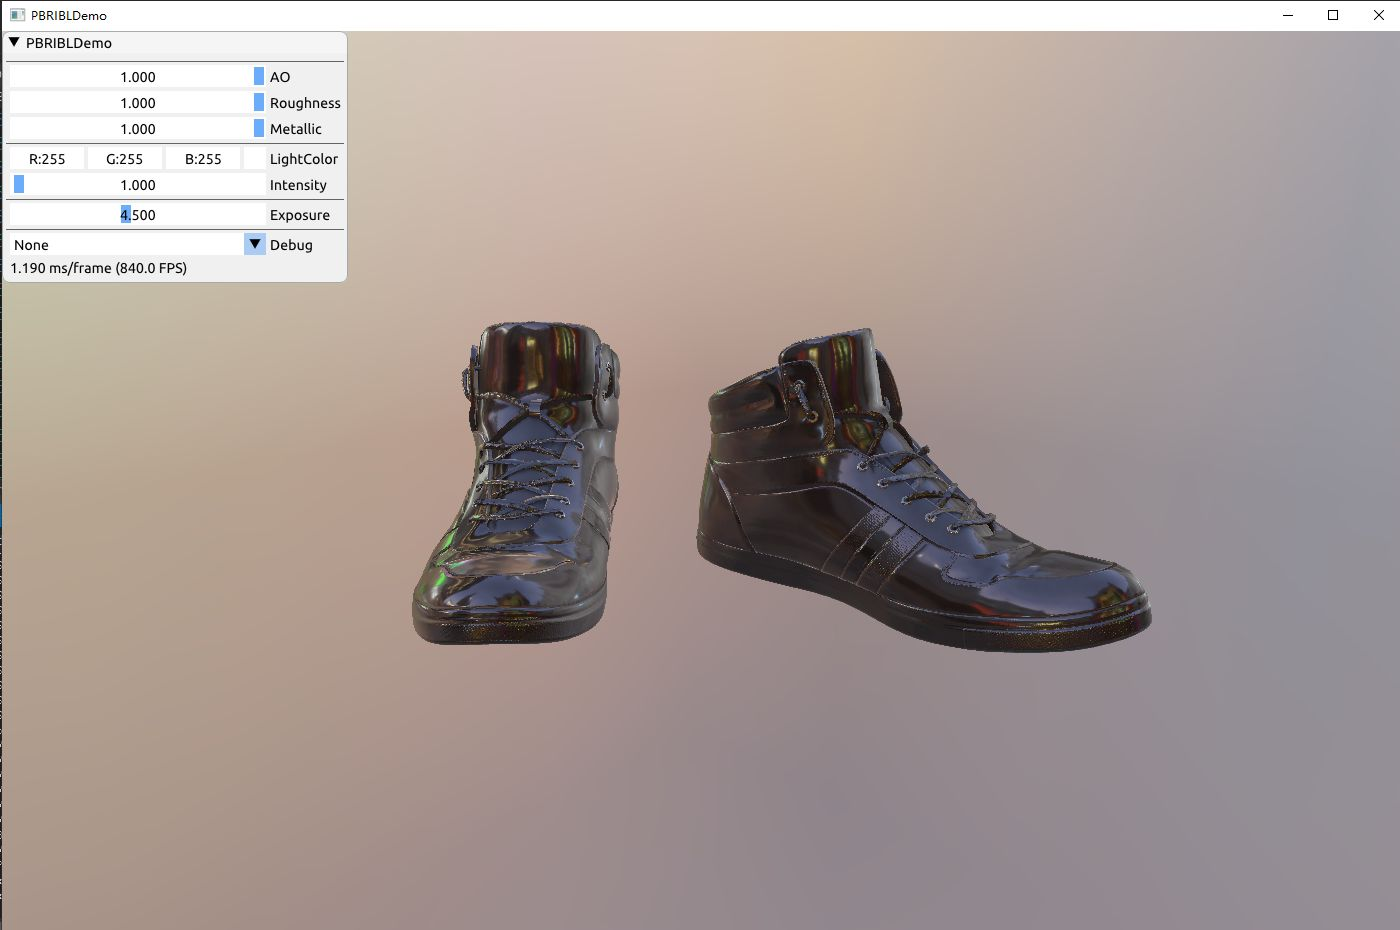
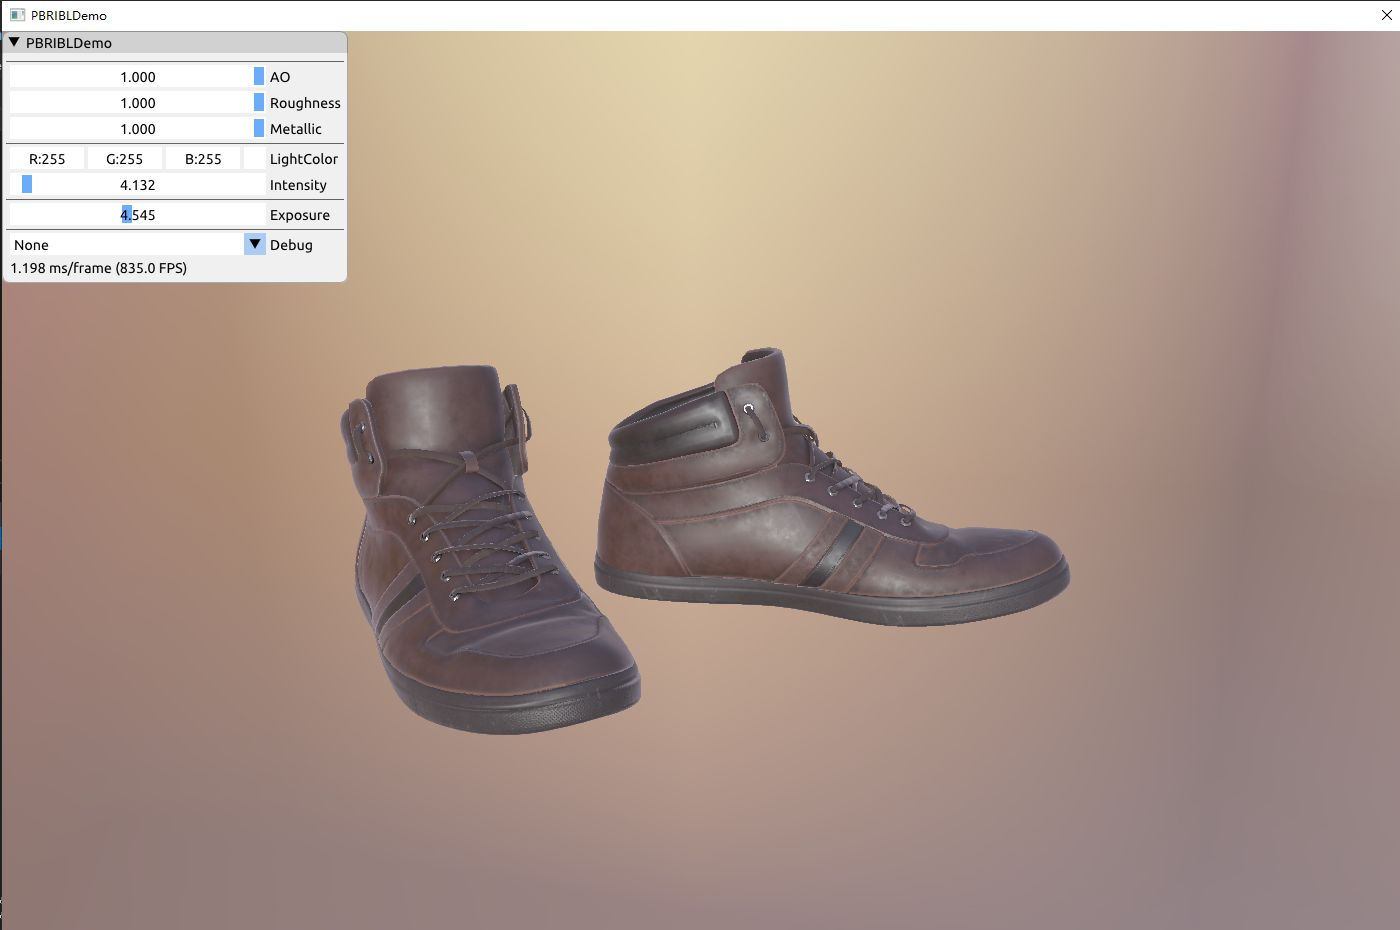
修复lod失效的问题

diff --git a/Engine/Monkey/Demo/DVKTexture.cpp b/Engine/Monkey/Demo/DVKTexture.cpp
@@ -31,13 +31,11 @@ namespace vk_demo
         VkSampler                       imageSampler = VK_NULL_HANDLE;
 		VkDescriptorImageInfo           descriptorInfo = {};
 
-		if (!(imageUsageFlags & VK_IMAGE_USAGE_TRANSFER_DST_BIT)) 
-		{
+		if (!(imageUsageFlags & VK_IMAGE_USAGE_TRANSFER_DST_BIT)) {
 			imageUsageFlags |= VK_IMAGE_USAGE_TRANSFER_DST_BIT;
 		}
 
-		if (!(imageUsageFlags & VK_IMAGE_USAGE_TRANSFER_SRC_BIT)) 
-		{
+		if (!(imageUsageFlags & VK_IMAGE_USAGE_TRANSFER_SRC_BIT)) {
 			imageUsageFlags |= VK_IMAGE_USAGE_TRANSFER_SRC_BIT;
 		}
 		
@@ -155,7 +153,8 @@ namespace vk_demo
 		samplerInfo.borderColor      = VK_BORDER_COLOR_FLOAT_OPAQUE_WHITE;
 		samplerInfo.maxAnisotropy    = 1.0;
 		samplerInfo.anisotropyEnable = VK_FALSE;
-		samplerInfo.maxLod           = (float)mipLevels;
+		samplerInfo.maxLod           = mipLevels;
+		samplerInfo.minLod           = 0.0f;
 		VERIFYVULKANRESULT(vkCreateSampler(device, &samplerInfo, VULKAN_CPU_ALLOCATOR, &imageSampler));
 		
 		VkImageViewCreateInfo viewInfo;
@@ -285,7 +284,8 @@ namespace vk_demo
 		samplerInfo.borderColor      = VK_BORDER_COLOR_FLOAT_OPAQUE_WHITE;
 		samplerInfo.maxAnisotropy    = 1.0;
 		samplerInfo.anisotropyEnable = VK_FALSE;
-		samplerInfo.maxLod           = 1.0f;
+		samplerInfo.maxLod           = mipLevels;
+		samplerInfo.minLod           = 0.0f;
 		VERIFYVULKANRESULT(vkCreateSampler(device, &samplerInfo, VULKAN_CPU_ALLOCATOR, &imageSampler));
 
 		VkImageViewCreateInfo viewInfo;
@@ -382,6 +382,8 @@ namespace vk_demo
 		VkMemoryAllocateInfo memAllocInfo;
 		ZeroVulkanStruct(memAllocInfo, VK_STRUCTURE_TYPE_MEMORY_ALLOCATE_INFO);
 
+		int32 mipLevels = 1;
+
 		// image info
 		VkImage                         image = VK_NULL_HANDLE;
 		VkDeviceMemory                  imageMemory = VK_NULL_HANDLE;
@@ -394,7 +396,7 @@ namespace vk_demo
 		ZeroVulkanStruct(imageCreateInfo, VK_STRUCTURE_TYPE_IMAGE_CREATE_INFO);
 		imageCreateInfo.imageType       = VK_IMAGE_TYPE_2D;
 		imageCreateInfo.format          = format;
-		imageCreateInfo.mipLevels       = 1;
+		imageCreateInfo.mipLevels       = mipLevels;
 		imageCreateInfo.arrayLayers     = numArray;
 		imageCreateInfo.samples         = sampleCount;
 		imageCreateInfo.tiling          = VK_IMAGE_TILING_OPTIMAL;
@@ -424,7 +426,8 @@ namespace vk_demo
 		samplerInfo.borderColor      = VK_BORDER_COLOR_FLOAT_OPAQUE_WHITE;
 		samplerInfo.maxAnisotropy    = 1.0;
 		samplerInfo.anisotropyEnable = VK_FALSE;
-		samplerInfo.maxLod           = 1.0f;
+		samplerInfo.maxLod           = mipLevels;
+		samplerInfo.minLod           = 0.0f;
 		VERIFYVULKANRESULT(vkCreateSampler(device, &samplerInfo, VULKAN_CPU_ALLOCATOR, &imageSampler));
 
 		VkImageViewCreateInfo viewInfo;
@@ -435,7 +438,7 @@ namespace vk_demo
 		viewInfo.components = { VK_COMPONENT_SWIZZLE_R, VK_COMPONENT_SWIZZLE_G, VK_COMPONENT_SWIZZLE_B, VK_COMPONENT_SWIZZLE_A };
 		viewInfo.subresourceRange.aspectMask     = aspect;
 		viewInfo.subresourceRange.layerCount     = numArray;
-		viewInfo.subresourceRange.levelCount     = 1;
+		viewInfo.subresourceRange.levelCount     = mipLevels;
 		viewInfo.subresourceRange.baseMipLevel   = 0;
 		viewInfo.subresourceRange.baseArrayLayer = 0;
 		VERIFYVULKANRESULT(vkCreateImageView(device, &viewInfo, VULKAN_CPU_ALLOCATOR, &imageView));
@@ -444,7 +447,7 @@ namespace vk_demo
 		{
 			VkImageSubresourceRange subresourceRange = {};
 			subresourceRange.aspectMask     = VK_IMAGE_ASPECT_COLOR_BIT;
-			subresourceRange.levelCount     = 1;
+			subresourceRange.levelCount     = mipLevels;
 			subresourceRange.layerCount     = numArray;
 			subresourceRange.baseArrayLayer = 0;
 			subresourceRange.baseMipLevel   = 0;
@@ -476,7 +479,7 @@ namespace vk_demo
 		texture->imageSampler   = imageSampler;
 		texture->imageView      = imageView;
 		texture->device			= device;
-		texture->mipLevels		= 1;
+		texture->mipLevels		= mipLevels;
 		texture->layerCount		= numArray;
 		texture->numSamples     = sampleCount;
 
@@ -492,6 +495,8 @@ namespace vk_demo
 		VkMemoryAllocateInfo memAllocInfo;
 		ZeroVulkanStruct(memAllocInfo, VK_STRUCTURE_TYPE_MEMORY_ALLOCATE_INFO);
 
+		int32 mipLevels = 1;
+
 		// image info
 		VkImage                         image = VK_NULL_HANDLE;
 		VkDeviceMemory                  imageMemory = VK_NULL_HANDLE;
@@ -504,7 +509,7 @@ namespace vk_demo
 		ZeroVulkanStruct(imageCreateInfo, VK_STRUCTURE_TYPE_IMAGE_CREATE_INFO);
 		imageCreateInfo.imageType       = VK_IMAGE_TYPE_2D;
 		imageCreateInfo.format          = format;
-		imageCreateInfo.mipLevels       = 1;
+		imageCreateInfo.mipLevels       = mipLevels;
 		imageCreateInfo.arrayLayers     = 1;
 		imageCreateInfo.samples         = sampleCount;
 		imageCreateInfo.tiling          = VK_IMAGE_TILING_OPTIMAL;
@@ -534,7 +539,8 @@ namespace vk_demo
 		samplerInfo.borderColor      = VK_BORDER_COLOR_FLOAT_OPAQUE_WHITE;
 		samplerInfo.maxAnisotropy    = 1.0;
 		samplerInfo.anisotropyEnable = VK_FALSE;
-		samplerInfo.maxLod           = 1.0f;
+		samplerInfo.maxLod           = mipLevels;
+		samplerInfo.minLod           = 0.0f;
 		VERIFYVULKANRESULT(vkCreateSampler(device, &samplerInfo, VULKAN_CPU_ALLOCATOR, &imageSampler));
 
 		VkImageViewCreateInfo viewInfo;
@@ -545,7 +551,7 @@ namespace vk_demo
 		viewInfo.components = { VK_COMPONENT_SWIZZLE_R, VK_COMPONENT_SWIZZLE_G, VK_COMPONENT_SWIZZLE_B, VK_COMPONENT_SWIZZLE_A };
 		viewInfo.subresourceRange.aspectMask     = aspect;
 		viewInfo.subresourceRange.layerCount     = 1;
-		viewInfo.subresourceRange.levelCount     = 1;
+		viewInfo.subresourceRange.levelCount     = mipLevels;
 		viewInfo.subresourceRange.baseMipLevel   = 0;
 		viewInfo.subresourceRange.baseArrayLayer = 0;
 		VERIFYVULKANRESULT(vkCreateImageView(device, &viewInfo, VULKAN_CPU_ALLOCATOR, &imageView));
@@ -554,7 +560,7 @@ namespace vk_demo
 		{
 			VkImageSubresourceRange subresourceRange = {};
 			subresourceRange.aspectMask     = VK_IMAGE_ASPECT_COLOR_BIT;
-			subresourceRange.levelCount     = 1;
+			subresourceRange.levelCount     = mipLevels;
 			subresourceRange.layerCount     = 1;
 			subresourceRange.baseArrayLayer = 0;
 			subresourceRange.baseMipLevel   = 0;
@@ -586,7 +592,7 @@ namespace vk_demo
 		texture->imageSampler   = imageSampler;
 		texture->imageView      = imageView;
 		texture->device			= device;
-		texture->mipLevels		= 1;
+		texture->mipLevels		= mipLevels;
 		texture->layerCount		= 1;
 		texture->numSamples     = sampleCount;
 
@@ -812,7 +818,7 @@ namespace vk_demo
 		samplerInfo.borderColor      = VK_BORDER_COLOR_FLOAT_OPAQUE_WHITE;
 		samplerInfo.maxAnisotropy    = 1.0;
 		samplerInfo.anisotropyEnable = VK_FALSE;
-		samplerInfo.maxLod           = (float)mipLevels;
+		samplerInfo.maxLod           = mipLevels;
 		samplerInfo.minLod           = 0;
 		VERIFYVULKANRESULT(vkCreateSampler(device, &samplerInfo, VULKAN_CPU_ALLOCATOR, &imageSampler));
 
@@ -1036,7 +1042,7 @@ namespace vk_demo
 		samplerInfo.borderColor      = VK_BORDER_COLOR_FLOAT_OPAQUE_WHITE;
 		samplerInfo.maxAnisotropy    = 1.0;
 		samplerInfo.anisotropyEnable = VK_FALSE;
-		samplerInfo.maxLod           = (float)mipLevels;
+		samplerInfo.maxLod           = mipLevels;
         samplerInfo.minLod           = 0;
 		VERIFYVULKANRESULT(vkCreateSampler(device, &samplerInfo, VULKAN_CPU_ALLOCATOR, &imageSampler));
         
@@ -1159,7 +1165,7 @@ namespace vk_demo
 		samplerInfo.mipLodBias       = 0.0f;
 		samplerInfo.compareOp        = VK_COMPARE_OP_NEVER;
 		samplerInfo.minLod           = 0.0f;
-		samplerInfo.maxLod           = 0.0f;
+		samplerInfo.maxLod           = 1.0f;
 		samplerInfo.maxAnisotropy    = 1.0;
 		samplerInfo.anisotropyEnable = VK_FALSE;
 		samplerInfo.borderColor      = VK_BORDER_COLOR_FLOAT_OPAQUE_WHITE;

diff --git a/examples/56_PBR_IBL/PBRIBLDemo.cpp b/examples/56_PBR_IBL/PBRIBLDemo.cpp
@@ -209,6 +209,7 @@ private:
 				VertexAttribute::VA_Tangent
 			}
 		);
+		m_Model->rootNode->localMatrix.AppendRotation(180, Vector3::UpVector);
 
 		m_TexAlbedo = vk_demo::DVKTexture::Create2D(
 			"assets/models/leather-shoes/RootNode_baseColor.jpg",
@@ -796,7 +797,7 @@ private:
 		m_ViewCamera.Perspective(PI / 4, (float)GetWidth(), (float)GetHeight(), 0.10f, 3000.0f);
 
 		m_PBRParam.param.x = 1.0f; // ao
-		m_PBRParam.param.y = 1.0f; // roughness
+		m_PBRParam.param.y = 0.5f; // roughness
 		m_PBRParam.param.z = 1.0f; // metallic
 		m_PBRParam.param.w = 0.0f; // debug
 
